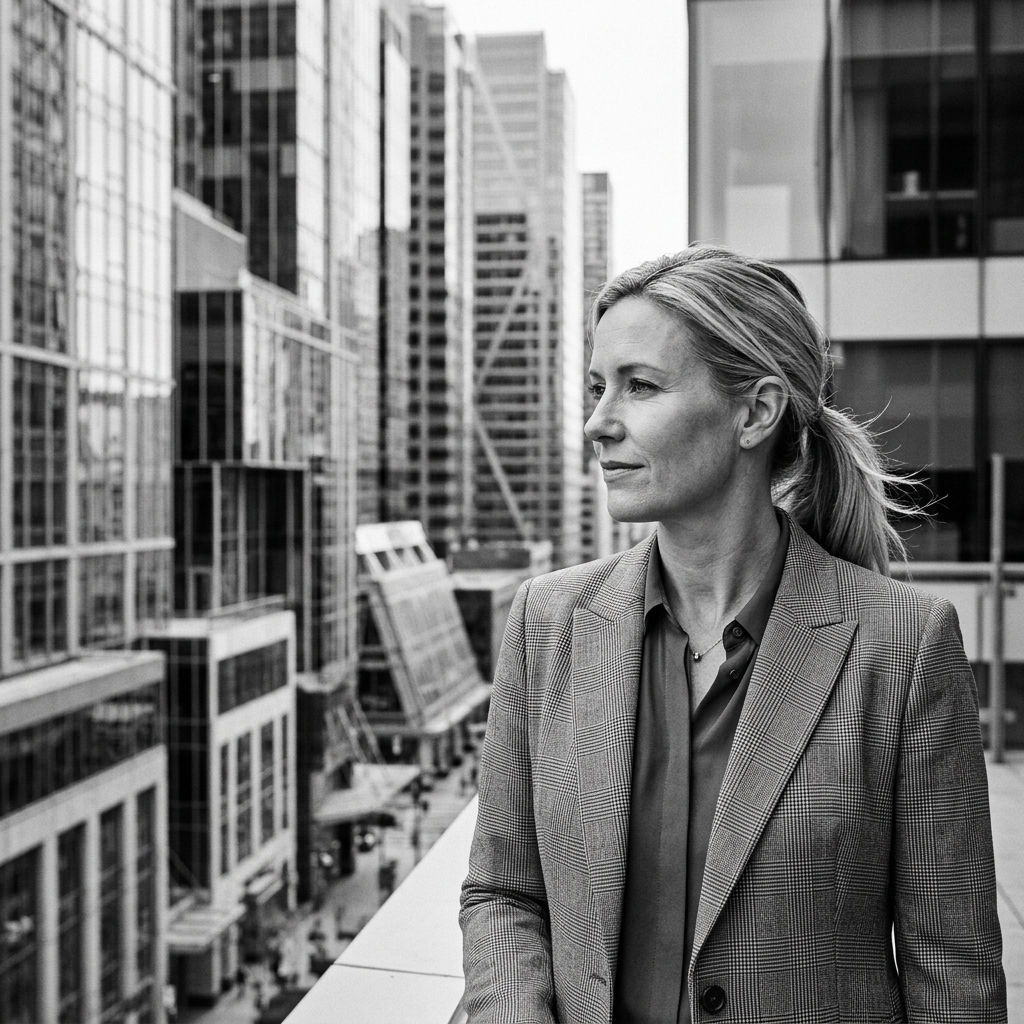
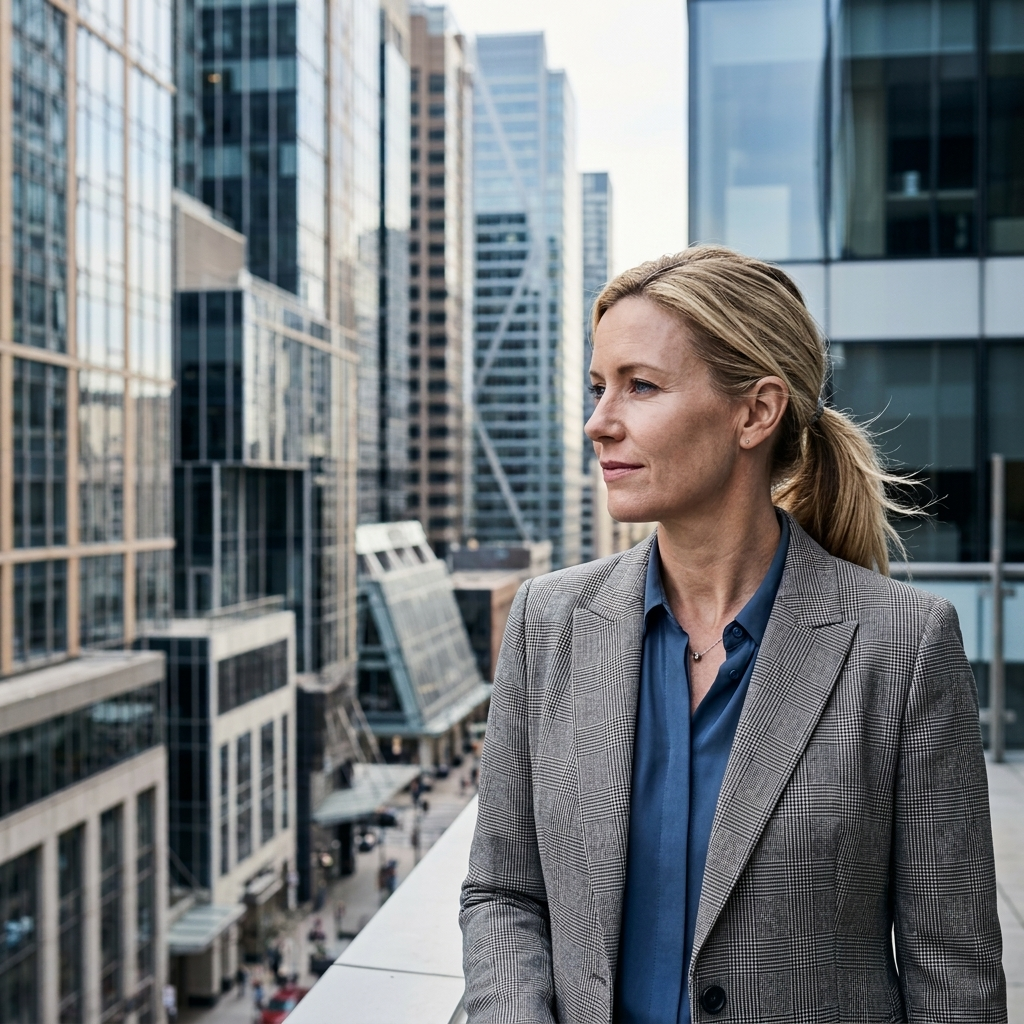
fix: black and white imah=ge into color

diff --git a/app/projects/[slug]/page.tsx b/app/projects/[slug]/page.tsx
@@ -62,7 +62,7 @@ export default async function ProjectPage({ params }) {
             src={project.imageSrc}
             alt={project.imageAlt || project.title}
             fill
-            className="object-cover object-center grayscale"
+            className="object-cover object-center"
             priority
           />
         </div>
@@ -107,16 +107,16 @@ export default async function ProjectPage({ params }) {
           </h3>
           <div className="grid grid-cols-1 md:grid-cols-2 gap-4 md:gap-8 mb-4 md:gap-y-8">
              <div className="relative aspect-[4/5] overflow-hidden border border-black/10 group active:scale-95 transition-all duration-500 ease-out">
-               <Image src="/interior-detail-lounge.jpg" alt="Interior detail" fill className="object-cover grayscale group-active:grayscale-0 group-hover:grayscale-0 group-active:scale-105 group-hover:scale-105 transition-all duration-500 ease-out" />
+               <Image src="/interior-detail-lounge.jpg" alt="Interior detail" fill className="object-cover group-active:scale-105 group-hover:scale-105 transition-all duration-500 ease-out" />
                <div className="absolute inset-0 bg-black/0 group-active:bg-black/5 group-hover:bg-black/5 transition-colors duration-500" />
              </div>
              <div className="relative aspect-[4/5] overflow-hidden border border-black/10 group active:scale-95 transition-all duration-500 ease-out">
-               <Image src="/interior-detail-residence.jpg" alt="Residence detail" fill className="object-cover grayscale group-active:grayscale-0 group-hover:grayscale-0 group-active:scale-105 group-hover:scale-105 transition-all duration-500 ease-out" />
+               <Image src="/interior-detail-residence.jpg" alt="Residence detail" fill className="object-cover group-active:scale-105 group-hover:scale-105 transition-all duration-500 ease-out" />
                <div className="absolute inset-0 bg-black/0 group-active:bg-black/5 group-hover:bg-black/5 transition-colors duration-500" />
              </div>
           </div>
            <div className="relative aspect-[16/9] md:aspect-[21/9] overflow-hidden border border-black/10 group active:scale-95 transition-all duration-500 ease-out mt-4 md:mt-8">
-             <Image src="/process-final.png" alt="Process detail" fill className="object-cover grayscale group-active:grayscale-0 group-hover:grayscale-0 group-active:scale-105 group-hover:scale-105 transition-all duration-500 ease-out" />
+             <Image src="/process-final.png" alt="Process detail" fill className="object-cover group-active:scale-105 group-hover:scale-105 transition-all duration-500 ease-out" />
              <div className="absolute inset-0 bg-black/0 group-active:bg-black/5 group-hover:bg-black/5 transition-colors duration-500" />
           </div>
         </div>

diff --git a/components/CaseStudiesStickySection.tsx b/components/CaseStudiesStickySection.tsx
@@ -211,7 +211,7 @@ export default function CaseStudiesStickySection({ projects }) {
                   alt={project.imageAlt}
                   fill
                   sizes="100vw"
-                  className="h-full w-full object-cover object-center grayscale transition-all duration-500 ease-out"
+                  className="h-full w-full object-cover object-center transition-all duration-500 ease-out"
                 />
                 <div className="pointer-events-none absolute inset-0 bg-[linear-gradient(180deg,rgba(255,255,255,0.04),rgba(255,255,255,0.16))]" />
               </div>
@@ -248,7 +248,7 @@ export default function CaseStudiesStickySection({ projects }) {
                 className="max-w-full space-y-5 md:max-w-[34rem] md:space-y-6"
               >
                 <div className="space-y-3">
-                  <h2 className="text-xl md:text-2xl xl:text-5xl font-light leading-relaxed">
+                  <h2 className="text-xl md:text-2xl xl:text-3xl font-light leading-relaxed">
                     {(() => {
                       const words = project.title.trim().split(" ");
                       const last = words.pop();
@@ -317,7 +317,7 @@ export default function CaseStudiesStickySection({ projects }) {
                     alt={project.imageAlt}
                     fill
                     sizes="(max-width: 1279px) 56vw, 42rem"
-                    className="w-full h-auto object-cover object-center grayscale transition-all duration-500 ease-out"
+                    className="w-full h-auto object-cover object-center transition-all duration-500 ease-out"
                   />
                   <div className="pointer-events-none absolute inset-0 bg-[linear-gradient(180deg,rgba(255,255,255,0.04),rgba(255,255,255,0.18))]" />
                 </div>

diff --git a/components/IdentitySection.tsx b/components/IdentitySection.tsx
@@ -60,8 +60,7 @@ export default function IdentitySection() {
                       src={img.src}
                       alt={img.alt}
                       fill
-                      className={`object-cover transition-all duration-700 ${isGalleryHovered ? "grayscale-0" : "grayscale"
-                        }`}
+                      className={`object-cover transition-all duration-700`}
                     />
                   </div>
                 </motion.div>
@@ -76,13 +75,13 @@ export default function IdentitySection() {
                 viewport={{ once: true }}
                 className="space-y-2"
               >
-                <p className="text-xl md:text-2xl xl:text-3xl font-light leading-relaxed text-ink">
+                <p className="text-lg md:text-xl font-light leading-relaxed text-ink">
                   It&apos;s about proportion, material, and the way a space is lived.
                 </p>
-                <p className="text-xl md:text-2xl xl:text-3xl font-light leading-relaxed text-ink">
+                <p className="text-lg md:text-xl font-light leading-relaxed text-ink">
                   Every project begins with listening. <span className="text-ink/30">Then we shape</span>
                 </p>
-                <p className="text-xl md:text-2xl xl:text-3xl font-light leading-relaxed text-ink/30">
+                <p className="text-lg md:text-xl font-light leading-relaxed text-ink/30">
                   clarity, calm, and a built form that feels distinctly yours.
                 </p>
               </motion.div>

diff --git a/components/ProjectIndexSection.tsx b/components/ProjectIndexSection.tsx
@@ -165,7 +165,7 @@ export default function ProjectIndexSection({ projects }) {
             alt={hoveredProject.imageAlt || hoveredProject.title}
             fill
             sizes="260px"
-            className="h-full w-full object-cover object-center grayscale"
+            className="h-full w-full object-cover object-center"
             priority={false}
           />
           <div className="pointer-events-none absolute inset-0 bg-[linear-gradient(180deg,rgba(255,255,255,0.06),rgba(20,20,20,0.1))]" />
@@ -242,7 +242,7 @@ export default function ProjectIndexSection({ projects }) {
 
                   <span className="grid min-w-0 gap-2">
                     <h3
-                      className={`project-name relative m-0 w-fit max-w-full whitespace-normal font-body text-h3-title font-normal transition-all duration-500 ease-out sm:whitespace-nowrap ${isActive ? "translate-x-1" : ""}`}
+                      className={`project-name relative m-0 w-fit max-w-full whitespace-normal font-body text-xl md:text-2xl font-normal transition-all duration-500 ease-out sm:whitespace-nowrap ${isActive ? "translate-x-1" : ""}`}
                     >
                       {(() => {
                         const words = project.title.trim().split(" ");

diff --git a/components/ServicesSection.tsx b/components/ServicesSection.tsx
@@ -64,8 +64,8 @@ export default function ServicesSection() {
 
         {/* Footer */}
         <div className="mt-20 flex flex-col lg:flex-row justify-between items-start lg:items-center gap-10 border-t border-ink/10 pt-10">
-          <div className="text-xl md:text-2xl xl:text-3xl font-light max-w-3xl leading-relaxed">
-            Our certified architects guide you through every stage of development <span className="font-medium italic">with expert knowledge and innovative solutions.</span>
+          <div className="text-lg md:text-xl font-light max-w-3xl leading-relaxed text-ink">
+            Our certified architects guide you through every stage of development <span>with expert knowledge and innovative solutions.</span>
           </div>
           <button className="group shrink-0 bg-ink px-8 py-4 text-paper flex items-center gap-3 hover:bg-ink/90 transition-all active:scale-95">
             <span className="font-medium tracking-wide">Get Started</span>

diff --git a/components/HeroSection.tsx b/components/HeroSection.tsx
@@ -6,9 +6,7 @@ import { createPortal } from "react-dom";
 import useSectionReveal from "./useSectionReveal";
 import useReducedMotion from "./useReducedMotion";
 import StaggeredText from "./animations/StaggeredText";
-import gsap from "gsap";
-import { SplitText } from "gsap/SplitText";
-import { Flip } from "gsap/dist/Flip";
+import { gsap, SplitText, Flip } from "gsap/all";
 
 const HERO_VIDEO_PLAYBACK_RATE = 1.35;
 
@@ -175,7 +173,7 @@ export default function HeroSection() {
           >
             <video
               ref={heroVideoRef}
-              className="h-full w-full object-cover object-center grayscale"
+              className="h-full w-full object-cover object-center"
               src="/vid3.mp4"
               poster="/vid3-poster.jpg"
               autoPlay

diff --git a/components/ScrollStorySection.tsx b/components/ScrollStorySection.tsx
@@ -95,7 +95,7 @@ export default function ScrollStorySection() {
                   alt={frame.imageAlt}
                   fill
                   sizes="(max-width: 767px) 100vw, (max-width: 1023px) 50vw, 48vw"
-                  className="w-full h-auto object-cover object-center grayscale transition duration-700"
+                  className="w-full h-auto object-cover object-center transition duration-700"
                 />
                 <div className="pointer-events-none absolute inset-0 bg-[linear-gradient(180deg,rgba(255,255,255,0.1),rgba(0,0,0,0.08))]" />
               </motion.div>

diff --git a/components/CaseStudySection.tsx b/components/CaseStudySection.tsx
@@ -188,7 +188,7 @@ export default function CaseStudySection({
                 fill
                 priority={imagePriority}
                 sizes="(max-width: 1023px) 100vw, 56vw"
-                className="h-auto w-full object-cover object-center grayscale"
+                className="h-auto w-full object-cover object-center"
               />
               <div
                 ref={revealMaskRef}

diff --git a/components/ComparisonSlider.tsx b/components/ComparisonSlider.tsx
@@ -59,7 +59,7 @@ export default function ComparisonSlider({
           src={beforeImage}
           alt={beforeLabel}
           fill
-          className="object-cover grayscale opacity-80"
+          className="object-cover opacity-80"
         />
         <div className="absolute bottom-6 left-6 bg-ink text-white px-4 py-2 text-[10px] uppercase tracking-widest font-bold">
           {beforeLabel}

diff --git a/app/globals.css b/app/globals.css
@@ -259,7 +259,7 @@ a:hover .project-name::after {
   display: flex;
   align-items: center;
   justify-content: center;
-  background: linear-gradient(180deg, #111111 0%, #191919 100%);
+  background: linear-gradient(135deg, #C8845A 0%, #832F23 100%);
   opacity: 1;
 }
 
